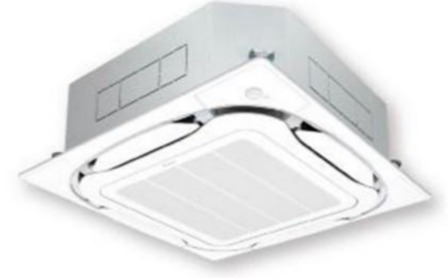
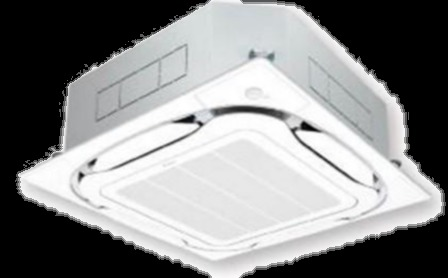
8.4.2026 - R6

diff --git a/index.html b/index.html
@@ -11,16 +11,16 @@
     <!-- The ?v= query string cache-busts every stylesheet + script below.
          Bump it (any new value, e.g. the date) whenever deploying changes,
          so browsers can never mix a stale cached module with a fresh one. -->
-    <link rel="stylesheet" href="CSS/base.css?v=20260804c">
-    <link rel="stylesheet" href="CSS/login.css?v=20260804c">
-    <link rel="stylesheet" href="CSS/main.css?v=20260804c">
-    <link rel="stylesheet" href="CSS/products.css?v=20260804c">
-    <link rel="stylesheet" href="CSS/cart.css?v=20260804c">
-    <link rel="stylesheet" href="CSS/docs.css?v=20260804c">
-    <link rel="stylesheet" href="CSS/projects.css?v=20260804c">
-    <link rel="stylesheet" href="CSS/project_view.css?v=20260804c">
-    <link rel="stylesheet" href="CSS/design_search.css?v=20260804c">
-    <link rel="stylesheet" href="CSS/quick_lookup.css?v=20260804c">
+    <link rel="stylesheet" href="CSS/base.css?v=20260804e">
+    <link rel="stylesheet" href="CSS/login.css?v=20260804e">
+    <link rel="stylesheet" href="CSS/main.css?v=20260804e">
+    <link rel="stylesheet" href="CSS/products.css?v=20260804e">
+    <link rel="stylesheet" href="CSS/cart.css?v=20260804e">
+    <link rel="stylesheet" href="CSS/docs.css?v=20260804e">
+    <link rel="stylesheet" href="CSS/projects.css?v=20260804e">
+    <link rel="stylesheet" href="CSS/project_view.css?v=20260804e">
+    <link rel="stylesheet" href="CSS/design_search.css?v=20260804e">
+    <link rel="stylesheet" href="CSS/quick_lookup.css?v=20260804e">
 </head>
 <body>
     <div id="app-root"></div>
@@ -33,32 +33,32 @@
          5. Individual views (login, main, projects, project_view, product base)
          6. Per-product extensions (filter visibility hooks etc.)
          7. App entry point last - wires it all together on DOMContentLoaded -->
-    <script src="JS/state.js?v=20260804c"></script>
-    <script src="JS/data.js?v=20260804c"></script>
-    <script src="JS/capacity.js?v=20260804c"></script>
-    <script src="JS/ui.js?v=20260804c"></script>
-    <script src="JS/background.js?v=20260804c"></script>
-    <script src="JS/visual_fx.js?v=20260804c"></script>
-    <script src="JS/quick_lookup.js?v=20260804c"></script>
-    <script src="JS/cart.js?v=20260804c"></script>
-    <script src="JS/docs.js?v=20260804c"></script>
-    <script src="JS/login.js?v=20260804c"></script>
-    <script src="JS/main.js?v=20260804c"></script>
-    <script src="JS/projects.js?v=20260804c"></script>
-    <script src="JS/jszip.min.js?v=20260804c"></script>
-    <script src="JS/schedule_templates.js?v=20260804c"></script>
-    <script src="JS/export.js?v=20260804c"></script>
-    <script src="JS/project_view.js?v=20260804c"></script>
-    <script src="JS/base.js?v=20260804c"></script>
-    <script src="JS/gas_packs.js?v=20260804c"></script>
-    <script src="JS/marvair.js?v=20260804c"></script>
-    <script src="JS/mini_splits.js?v=20260804c"></script>
-    <script src="JS/multi_position_splits.js?v=20260804c"></script>
-    <script src="JS/gas_splits.js?v=20260804c"></script>
-    <script src="JS/vfds.js?v=20260804c"></script>
-    <script src="JS/diffusers.js?v=20260804c"></script>
-    <script src="JS/grilles.js?v=20260804c"></script>
-    <script src="JS/design_search.js?v=20260804c"></script>
-    <script src="JS/app.js?v=20260804c"></script>
+    <script src="JS/state.js?v=20260804e"></script>
+    <script src="JS/data.js?v=20260804e"></script>
+    <script src="JS/capacity.js?v=20260804e"></script>
+    <script src="JS/ui.js?v=20260804e"></script>
+    <script src="JS/background.js?v=20260804e"></script>
+    <script src="JS/visual_fx.js?v=20260804e"></script>
+    <script src="JS/quick_lookup.js?v=20260804e"></script>
+    <script src="JS/cart.js?v=20260804e"></script>
+    <script src="JS/docs.js?v=20260804e"></script>
+    <script src="JS/login.js?v=20260804e"></script>
+    <script src="JS/main.js?v=20260804e"></script>
+    <script src="JS/projects.js?v=20260804e"></script>
+    <script src="JS/jszip.min.js?v=20260804e"></script>
+    <script src="JS/schedule_templates.js?v=20260804e"></script>
+    <script src="JS/export.js?v=20260804e"></script>
+    <script src="JS/project_view.js?v=20260804e"></script>
+    <script src="JS/base.js?v=20260804e"></script>
+    <script src="JS/gas_packs.js?v=20260804e"></script>
+    <script src="JS/marvair.js?v=20260804e"></script>
+    <script src="JS/mini_splits.js?v=20260804e"></script>
+    <script src="JS/multi_position_splits.js?v=20260804e"></script>
+    <script src="JS/gas_splits.js?v=20260804e"></script>
+    <script src="JS/vfds.js?v=20260804e"></script>
+    <script src="JS/diffusers.js?v=20260804e"></script>
+    <script src="JS/grilles.js?v=20260804e"></script>
+    <script src="JS/design_search.js?v=20260804e"></script>
+    <script src="JS/app.js?v=20260804e"></script>
 </body>
 </html>

diff --git a/JS/mini_splits.js b/JS/mini_splits.js
@@ -72,17 +72,16 @@
 
         /**
          * Indoor-unit-type picker gallery above the filter bar (same look
-         * and mechanics as the diffuser model gallery). Clicking a card
-         * sets TYPE (INDOOR UNIT #1) to that type; clicking the active
-         * card clears it. Cards use the light image well - the submittal
-         * photos are on white, unlike the black-background Price renders.
+         * and mechanics as the diffuser model gallery, in the compact
+         * size). Clicking a card sets TYPE (INDOOR UNIT #1) to that type;
+         * clicking the active card clears it.
          */
         buildIntroSection: function (product, data, api) {
             var cards = (product && product.typeGallery) || [];
             if (!cards.length) return null;
 
             var wrap = document.createElement('div');
-            wrap.className = 'model-gallery';
+            wrap.className = 'model-gallery model-gallery-compact';
 
             cards.forEach(function (cardDef) {
                 var type = String(cardDef.type);
@@ -94,7 +93,7 @@
                              ' first indoor unit';
 
                 var imgBox = document.createElement('div');
-                imgBox.className = 'model-card-image model-card-image-light';
+                imgBox.className = 'model-card-image';
                 var img = new Image();
                 img.alt = type;
                 img.src = cardDef.picture;

diff --git a/CSS/products.css b/CSS/products.css
@@ -630,16 +630,27 @@
     object-fit: contain;
 }
 
-/* Light image well for galleries whose photos sit on white backgrounds
-   (mini-split submittal shots) instead of the processed black renders. */
-.model-card-image-light {
-    background-color: #fff;
+/* Compact gallery variant (mini-split type picker): smaller cards, and a
+   reserved two-line caption block so cards whose label fits on one line
+   stay the same height as the rest (images aligned across the row). */
+.model-gallery-compact .model-card {
+    flex: 0 1 100px;
+    min-width: 72px;
+    /* Buttons vertically center their content by default; column-flex
+       pins the image to the top so all images align regardless of how
+       many caption lines follow. */
+    display: flex;
+    flex-direction: column;
+    align-items: stretch;
 }
 
-.model-card-image-light img {
-    /* A touch of padding so the photo doesn't touch the card edges. */
-    width: 88%;
-    height: 88%;
+.model-gallery-compact .model-card-label {
+    /* Fill the leftover card height and center the caption within it. */
+    flex: 1;
+    min-height: 2.6em;
+    display: flex;
+    align-items: center;
+    justify-content: center;
 }
 
 .model-card-label {

diff --git a/JS/data.js b/JS/data.js
@@ -49,9 +49,8 @@
             // on the browse page (see JS/mini_splits.js). `type` must
             // match a TYPE (INDOOR UNIT #1) filter value exactly -
             // clicking a card filters the schedule to that indoor type.
-            // Photos are the indoor-unit shots from the listed models'
-            // submittal PDFs (white background, so the cards use the
-            // light image well).
+            // Photos are the indoor-unit shots from the submittal PDFs,
+            // flood-filled onto black like the Price "(Black)" renders.
             typeGallery: [
                 { type: 'Wall Mounted',          picture: 'DATA/PICTURES/MINI SPLIT TYPES/Wall Mounted.jpg' },
                 { type: 'Cassette',              picture: 'DATA/PICTURES/MINI SPLIT TYPES/Cassette.jpg' },
